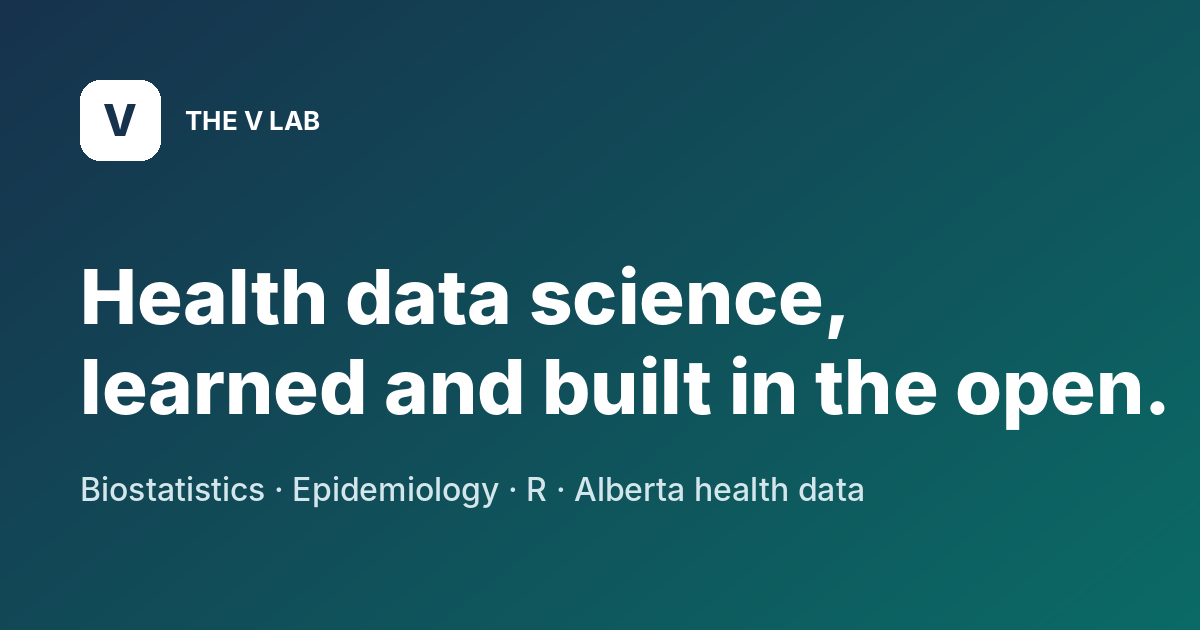
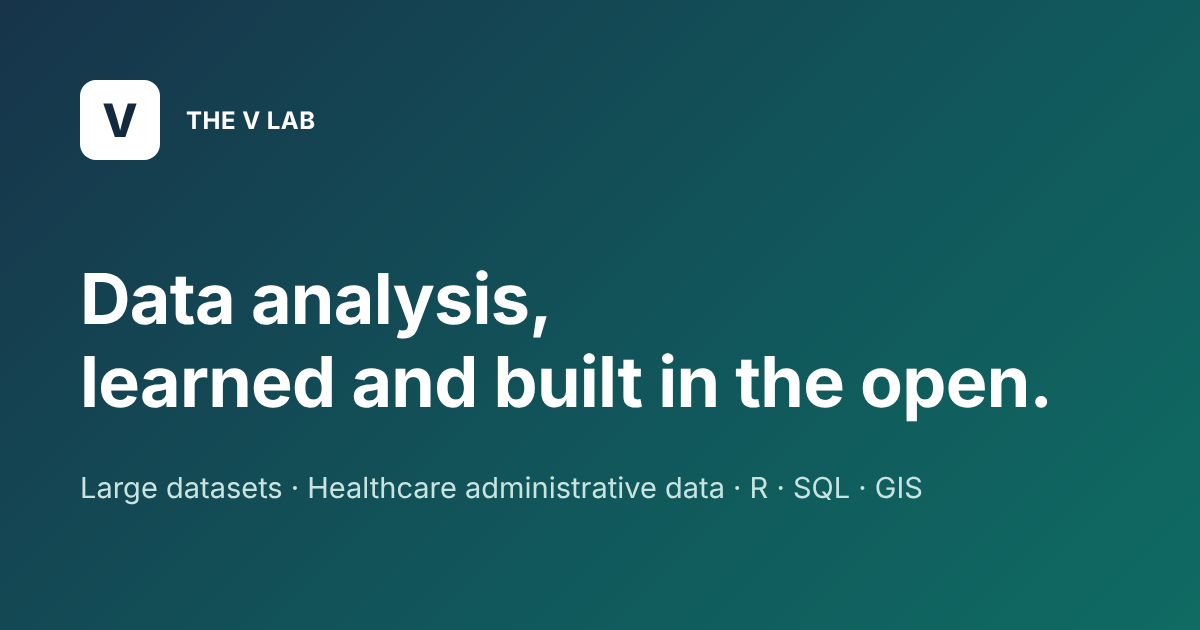
Update preview images to the current names and focus
Project 001 cover now reads ED-to-Inpatient Pathways; the site-wide preview reflects the data-analysis focus; Project 002 gets its own cover, shown on the Projects page and used as its share image.

Claude-Session: https://claude.ai/code/session_0149ASEYXxW8fyeyEiXM3Y3T

diff --git a/project002.html b/project002.html
@@ -10,12 +10,12 @@
 <meta property="og:title" content="Project 002: Calgary Housing Observatory | The V Lab">
 <meta property="og:description" content="An interactive Shiny dashboard of Calgary residential listings by community: prices, structure mix and spatial patterns on City of Calgary community boundaries.">
 <meta property="og:url" content="https://vthelab.com/project002.html">
-<meta property="og:image" content="https://vthelab.com/assets/og.png">
+<meta property="og:image" content="https://vthelab.com/assets/project002.png">
 <meta property="og:site_name" content="The V Lab">
 <meta name="twitter:card" content="summary_large_image">
 <meta name="twitter:title" content="Project 002: Calgary Housing Observatory | The V Lab">
 <meta name="twitter:description" content="An interactive Shiny dashboard of Calgary residential listings by community: prices, structure mix and spatial patterns on City of Calgary community boundaries.">
-<meta name="twitter:image" content="https://vthelab.com/assets/og.png">
+<meta name="twitter:image" content="https://vthelab.com/assets/project002.png">
 <meta name="theme-color" content="#13293d">
 <link rel="icon" href="assets/favicon.svg" type="image/svg+xml">
 <link rel="preconnect" href="https://fonts.googleapis.com">

diff --git a/projects.html b/projects.html
@@ -58,7 +58,7 @@
           <a class="btn btn-outline" href="https://github.com/The-V-Lab/Project001_HealthData">Source on GitHub</a>
         </div>
       </div>
-      <img src="assets/project001.jpg" alt="Project 001 cover: synthetic health data consulting" loading="lazy" width="1200" height="630">
+      <img src="assets/project001.jpg" alt="Project 001 cover: ED-to-Inpatient Pathways" loading="lazy" width="1200" height="630">
     </div>
 
     <div class="p-block">
@@ -158,7 +158,7 @@
 </section>
 <section id="project-002">
   <div class="wrap">
-    <div class="feature feature-solo">
+    <div class="feature">
       <div>
         <span class="tag teal">Project 002: Calgary Housing Observatory</span>
         <h3>Calgary Housing by Community: Prices, Structure Mix and Spatial Patterns in a Residential Listings Extract</h3>
@@ -169,6 +169,7 @@
           <a class="btn btn-outline" href="project002.html">About the project</a>
         </div>
       </div>
+      <img src="assets/project002.png" alt="Project 002 cover: Calgary Housing Observatory" loading="lazy" width="1200" height="630">
     </div>
 
     <div class="p-block">
